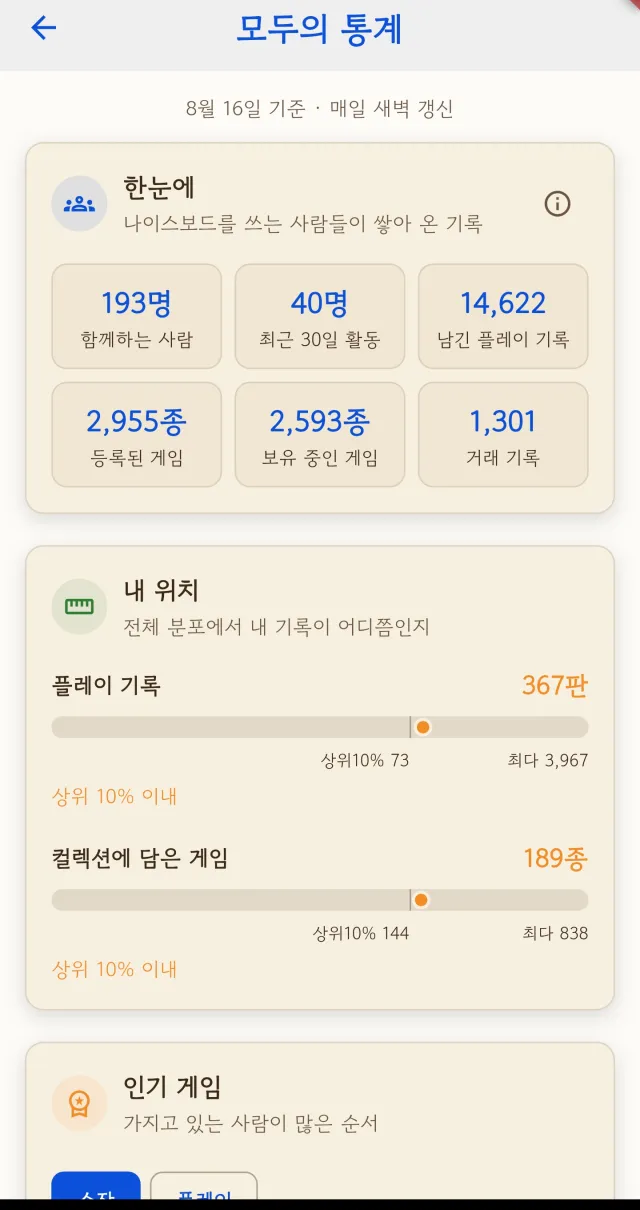
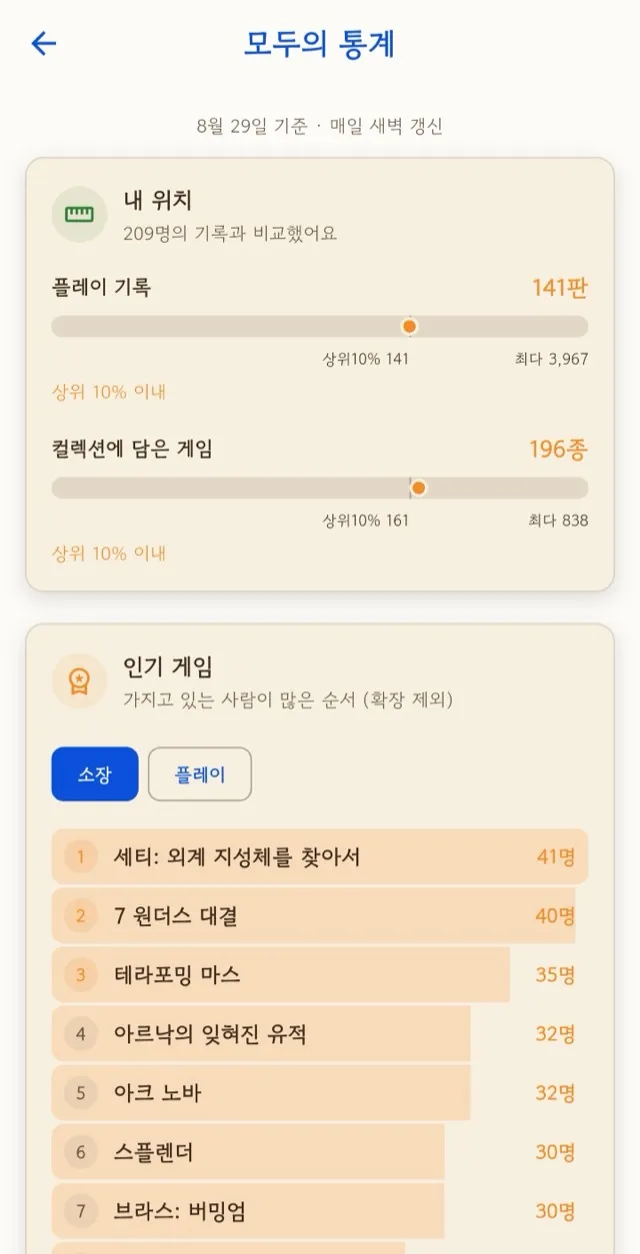
나이스보드 사용설명서 — 1.5.9 스크린샷 갱신
교체: insights · everyones-stats · score-template2
신규: my-history · my-history2 · game-detail3
캡션: 인사이트 탭(나의 히스토리 카드 추가), 점수 시트(값 여러 개 선택)
출시노트 링크 라벨 오기 수정 (4.4 → 4.3 점수 시트 템플릿)

diff --git a/docs/niceboard/14-release-notes/index.md b/docs/niceboard/14-release-notes/index.md
@@ -24,7 +24,7 @@ nav_order: 14
 
 - **새 기능 — 「나의 히스토리」** — 기록을 **분기 · 반기 · 연**으로 나눠 시기별 변화를 봅니다. 장르 · 인원 · 장소 · 승률 · 지갑 성향 등 12가지 ([6.5 나의 히스토리](../06-insights/my-history/))
 - **게임 상세에 플레이 이력** — 그 게임의 **최근 3판**이 기록 카드로 보입니다 ([3.2 게임 상세](../03-games/game-detail/))
-- **점수 시트에 「값 여러 개 선택」** — 한 항목에 값을 여러 개 기록할 수 있고, 통계는 **값마다 1판씩** 셉니다 ([4.4 점수 시트](../04-play-records/score-sheets/))
+- **점수 시트에 「값 여러 개 선택」** — 한 항목에 값을 여러 개 기록할 수 있고, 통계는 **값마다 1판씩** 셉니다 ([4.3 점수 시트 템플릿](../04-play-records/score-sheets/))
 - **「모두의 통계」 개편** — 맨 위가 **「내 위치」**로 바뀌고 **「요즘 새로 들인 게임」**이 생겼습니다 ([6.4 모두의 통계](../06-insights/everyones-stats/))
 - **버그 수정**
   - 혼자 저장한 기록을 수정할 때 **「모임」·「인원 추가」 버튼이 사라지던 문제** ([4.2 참가자와 역할](../04-play-records/participants/))

diff --git a/docs/niceboard/03-games/game-detail.md b/docs/niceboard/03-games/game-detail.md
@@ -104,6 +104,9 @@ Powered by BGG (게임 정보 제공: BoardGameGeek)
 이 게임을 언제 누구와 했는지, **최근 3판**이 기록 카드 그대로 나옵니다.
 제목 옆에 이 게임의 총 판수가 붙습니다. 기록이 하나도 없으면 이 섹션은 보이지 않습니다.
 
+![게임 상세 — 플레이 통계와 플레이 이력](/docs/niceboard/assets/screenshots/game-detail3.webp){: .screenshot }
+*플레이 통계 요약 바로 아래에 이어집니다. 오른쪽 위 `전체 보기` 로 이 게임의 기록 전체를 봅니다*
+
 | 요소 | 설명 |
 |---|---|
 | 기록 카드 **탭** | 그 판의 상세 시트 (참가자·점수·코멘트) → [4.7](../../04-play-records/managing-records/) |

diff --git a/docs/niceboard/04-play-records/score-sheets.md b/docs/niceboard/04-play-records/score-sheets.md
@@ -70,7 +70,7 @@ nav_order: 3
 ![점수표 설정 위쪽](/docs/niceboard/assets/screenshots/score-template.webp){: .screenshot }
 ![점수 항목 목록](/docs/niceboard/assets/screenshots/score-template2.webp){: .screenshot }
 </div>
-*왼쪽에서 점수 유형을 고르고, 오른쪽처럼 항목마다 옵션을 켭니다. `게임 공통` 체크박스는 `텍스트 항목` 을 켜야 나타납니다*
+*왼쪽에서 점수 유형을 고르고, 오른쪽처럼 항목마다 옵션을 켭니다. `게임 공통`·`값 여러 개 선택` 체크박스는 `텍스트 항목` 을 켜야 나타납니다*
 
 ### 점수 항목
 

diff --git a/docs/niceboard/06-insights/my-history.md b/docs/niceboard/06-insights/my-history.md
@@ -52,6 +52,12 @@ nav_order: 5
 
 ## 화면에 담긴 것
 
+<div class="screenshot-row" markdown="1">
+![나의 히스토리 — 그때와 지금](/docs/niceboard/assets/screenshots/my-history.webp){: .screenshot }
+![나의 히스토리 — 6축 추이와 장르 비중](/docs/niceboard/assets/screenshots/my-history2.webp){: .screenshot }
+</div>
+*맨 위 `구간` 칩으로 분기 · 반기 · 연을 바꿉니다. 색이 흐린 구간은 기록이 5판 미만이라 참고용입니다*
+
 ### 그때와 지금
 
 가장 먼저 나오는 카드입니다. 초기와 최근의 **플레이 스타일 6축**을 육각형

diff --git a/docs/niceboard/06-insights/insights-tab.md b/docs/niceboard/06-insights/insights-tab.md
@@ -43,7 +43,7 @@ nav_order: 1
 **H-Index**에는 물음표 아이콘이 있어 설명을 볼 수 있습니다 → [6.3 지표 사전](../metrics/)
 
 ![통계 & 인사이트 탭](/docs/niceboard/assets/screenshots/insights.webp){: .screenshot }
-*기간 칩과 요약 카드, 그 아래 「모두의 통계」 카드와 여섯 개 카테고리*
+*기간 칩과 요약 카드, 그 아래 「모두의 통계」·「나의 히스토리」 카드와 여섯 개 카테고리*
 
 ---
 
